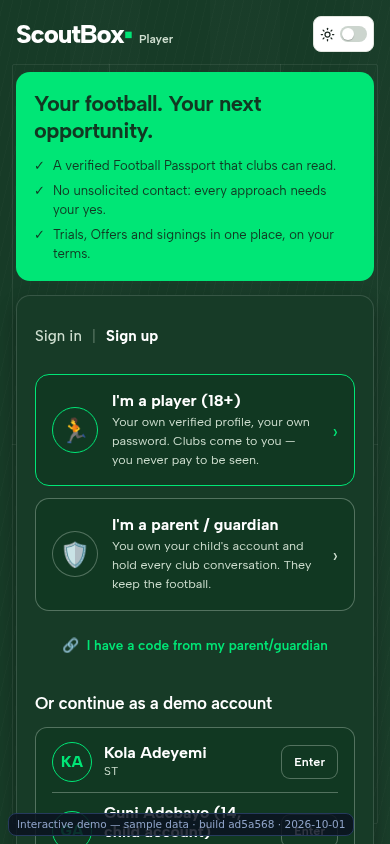
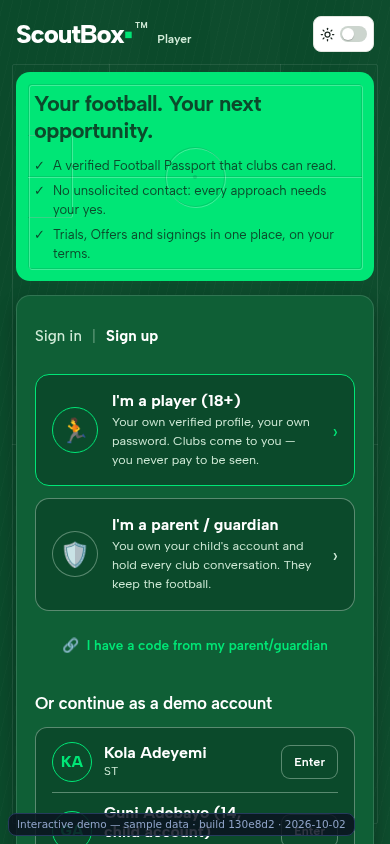
M24C.2: ScoutBox's own pair of greens on the entry screens, the pitch embossed into the bright panel, ™ on the wordmark
The bright ScoutBox green (#00E676) now pairs with a darker ScoutBox pitch
green (#0F5F36) for the form panel, the page one step darker on the same
hue (#0B4A2B), so the entry screens no longer read as a green-on-black
composition that could be mistaken for another brand. White and #D2ECD9
carry the text on the dark greens; #0B4A2B carries it on the bright green.
The introduction panel carries the pitch embossed into the bright green —
a dark groove with a light edge one pixel beside it (CSS pseudo-elements on
the portals, plain Views on the Player) — behind the copy, never in front
of a tap, hidden from assistive technology. The wordmark reads ScoutBox▪™
on every entry screen. Layout, forms, behaviour and the Agent gold label
are unchanged.

Claude-Session: https://claude.ai/code/session_013yjAY7aDf2i5xuqFheoSu9

diff --git a/design-system/platform.css b/design-system/platform.css
@@ -517,15 +517,18 @@ video.clip { width: 100%; max-height: 300px; border-radius: 10px; background: #0
    The pitch is two pseudo-elements: pointer-events none, outside the
    accessibility tree, behind the opaque card, no animation. */
 .login.auth-page {
-  --auth-green: #00e676;        /* bright brand green: the introduction, the submit, focus */
-  --auth-dark: #173b27;         /* dark football green: the page and the form panel */
-  --auth-deep: #113822;         /* deep green: text on bright / pale green, pressed states */
+  --auth-green: #00e676;        /* ScoutBox green: the introduction, the submit, focus */
+  --auth-pitch-green: #0f5f36;  /* ScoutBox pitch green — the darker green that accompanies it: the form panel */
+  --auth-turf: #0b4a2b;         /* the page behind the card, one step darker on the same hue; also text on the bright green and pressed states */
   --auth-pale: #e5f5e9;         /* pale supporting surfaces */
-  --auth-ink: #ffffff;          /* main text on dark green */
-  --auth-soft: #cfdfd0;         /* supporting text on dark green */
-  --auth-promo: var(--auth-green); --auth-panel: var(--auth-dark); --auth-promo-ink: var(--auth-deep);
-  --auth-line: rgba(207, 223, 208, 0.35); --auth-line-strong: rgba(207, 223, 208, 0.6); --auth-focus: var(--auth-green);
-  --auth-pitch: rgba(255, 255, 255, 0.08); --auth-grain: rgba(255, 255, 255, 0.016); --auth-band: rgba(255, 255, 255, 0.012);
+  --auth-ink: #ffffff;          /* main text on the dark greens */
+  --auth-soft: #d2ecd9;         /* supporting text on the dark greens */
+  --auth-dark: var(--auth-turf); --auth-deep: var(--auth-turf);
+  --auth-promo: var(--auth-green); --auth-panel: var(--auth-pitch-green); --auth-promo-ink: var(--auth-turf);
+  --auth-line: rgba(210, 236, 217, 0.4); --auth-line-strong: rgba(210, 236, 217, 0.65); --auth-focus: var(--auth-green);
+  --auth-pitch: rgba(255, 255, 255, 0.09); --auth-grain: rgba(255, 255, 255, 0.016); --auth-band: rgba(255, 255, 255, 0.012);
+  /* the embossed pitch on the bright-green panel: a dark groove with a light edge */
+  --auth-emboss-dark: rgba(8, 60, 32, 0.14); --auth-emboss-light: rgba(255, 255, 255, 0.26);
   position: relative; isolation: isolate; overflow-x: hidden;
   background-color: var(--auth-dark);
   background-image:
@@ -547,9 +550,27 @@ video.clip { width: 100%; max-height: 300px; border-radius: 10px; background: #0
 .auth-page .login-toolbar { top: 14px; right: 16px; z-index: 2; }
 .auth-card {
   position: relative; z-index: 1; display: grid; grid-template-columns: 45fr 55fr; width: 100%; max-width: 1000px;
-  border-radius: 14px; overflow: hidden; border: 1px solid rgba(255, 255, 255, 0.1); box-shadow: 0 24px 60px rgba(0, 0, 0, 0.35), 0 2px 6px rgba(0, 0, 0, 0.2);
+  border-radius: 14px; overflow: hidden; border: 1px solid rgba(255, 255, 255, 0.12); box-shadow: 0 24px 60px rgba(0, 0, 0, 0.3), 0 2px 6px rgba(0, 0, 0, 0.18);
 }
-.auth-promo { background: var(--auth-promo); color: var(--auth-promo-ink); padding: 44px 40px; display: flex; flex-direction: column; justify-content: center; gap: 22px; }
+.auth-promo { position: relative; isolation: isolate; overflow: hidden; background: var(--auth-promo); color: var(--auth-promo-ink); padding: 44px 40px; display: flex; flex-direction: column; justify-content: center; gap: 22px; }
+.auth-promo > * { position: relative; z-index: 1; }
+/* the pitch embossed into the bright green: boundary, halfway line, centre circle and spot (::before), one penalty area (::after) */
+.auth-promo::before {
+  content: ''; position: absolute; pointer-events: none; z-index: 0; inset: 22px 22px; border-radius: 3px;
+  border: 1px solid var(--auth-emboss-dark); box-shadow: inset 1px 1px 0 var(--auth-emboss-light), 1px 1px 0 var(--auth-emboss-light);
+  background-image:
+    linear-gradient(var(--auth-emboss-dark), var(--auth-emboss-dark)), linear-gradient(var(--auth-emboss-light), var(--auth-emboss-light)),
+    radial-gradient(circle at center, transparent 0 58px, var(--auth-emboss-dark) 58px 59px, transparent 59px),
+    radial-gradient(circle at calc(50% + 1px) calc(50% + 1px), transparent 0 58px, var(--auth-emboss-light) 58px 59px, transparent 59px),
+    radial-gradient(circle at center, var(--auth-emboss-dark) 0 2.5px, transparent 2.5px),
+    radial-gradient(circle at calc(50% + 1px) calc(50% + 1px), var(--auth-emboss-light) 0 2.5px, transparent 2.5px);
+  background-size: 100% 1px, 100% 1px, 100% 100%, 100% 100%, 100% 100%, 100% 100%;
+  background-position: 0 calc(50% - 0.5px), 0 calc(50% + 0.5px), center, center, center, center; background-repeat: no-repeat;
+}
+.auth-promo::after {
+  content: ''; position: absolute; pointer-events: none; z-index: 0; left: 30%; right: 30%; top: 22px; height: 64px; border-radius: 0 0 3px 3px;
+  border: 1px solid var(--auth-emboss-dark); border-top: 0; box-shadow: inset 1px 1px 0 var(--auth-emboss-light), 1px 1px 0 var(--auth-emboss-light);
+}
 .auth-promo h2 { font-size: 30px; line-height: 1.12; letter-spacing: -0.9px; font-weight: 700; text-wrap: balance; color: var(--auth-promo-ink); }
 .auth-points { list-style: none; padding: 0; margin: 0; display: flex; flex-direction: column; gap: 11px; font-size: 14px; line-height: 1.5; max-width: 34ch; color: var(--auth-promo-ink); }
 .auth-points li { display: flex; gap: 10px; align-items: flex-start; }
@@ -559,6 +580,7 @@ video.clip { width: 100%; max-height: 300px; border-radius: 10px; background: #0
 .auth-form > * { width: 100%; max-width: 360px; align-self: center; }
 .auth-form h1 { font-size: 30px; font-weight: 800; letter-spacing: -1.3px; line-height: 1; display: inline-flex; align-items: baseline; gap: 7px; flex-wrap: wrap; justify-content: flex-start; color: var(--auth-ink); margin-bottom: 4px; }
 .auth-form h1 .wordmark::after { background: var(--auth-green); }
+.auth-form h1 .tm { font-size: 9px; font-weight: 700; letter-spacing: 0.6px; line-height: 1; color: var(--auth-soft); align-self: flex-start; margin: 2px 2px 0 0; }
 .auth-form h1 .brand-sub { color: var(--auth-soft); font-size: 13px !important; font-weight: 500; }
 :root[data-app="agent"] .auth-form h1 .brand-sub { color: var(--sb-gold, #a67c2e); background: #fbf4e4; font-weight: 700; padding: 3px 7px; border-radius: 5px; letter-spacing: 0; }
 :root[data-app="agent"][data-theme="dark"] .auth-form h1 .brand-sub { color: #a67c2e; }
@@ -621,6 +643,8 @@ video.clip { width: 100%; max-height: 300px; border-radius: 10px; background: #0
   .login.auth-page::after { left: 28%; width: 44%; top: 54px; height: 90px; border: 1px solid var(--auth-pitch); border-top: 0; border-radius: 0 0 2px 2px; }
   .auth-card { grid-template-columns: 1fr; border-radius: 12px; }
   .auth-promo { padding: 24px 20px; gap: 14px; }
+  .auth-promo::before { inset: 14px 14px; background-image: linear-gradient(var(--auth-emboss-dark), var(--auth-emboss-dark)), linear-gradient(var(--auth-emboss-light), var(--auth-emboss-light)), radial-gradient(circle at center, transparent 0 40px, var(--auth-emboss-dark) 40px 41px, transparent 41px), radial-gradient(circle at calc(50% + 1px) calc(50% + 1px), transparent 0 40px, var(--auth-emboss-light) 40px 41px, transparent 41px), radial-gradient(circle at center, var(--auth-emboss-dark) 0 2px, transparent 2px), radial-gradient(circle at calc(50% + 1px) calc(50% + 1px), var(--auth-emboss-light) 0 2px, transparent 2px); background-size: 1px 100%, 1px 100%, 100% 100%, 100% 100%, 100% 100%, 100% 100%; background-position: calc(50% - 0.5px) 0, calc(50% + 0.5px) 0, center, center, center, center; }
+  .auth-promo::after { left: 14px; right: auto; width: 56px; top: 30%; bottom: 30%; height: auto; border: 1px solid var(--auth-emboss-dark); border-left: 0; border-radius: 0 3px 3px 0; }
   .auth-promo h2 { font-size: 23px; }
   .auth-points { font-size: 13px; }
   .auth-form { padding: 24px 20px 22px; gap: 14px; }

diff --git a/scoutbox-player/src/app/onboarding.tsx b/scoutbox-player/src/app/onboarding.tsx
@@ -47,6 +47,32 @@ function RoleCard({ icon, title, subtitle, accent, onPress }: {
   );
 }
 
+/** M24C.2 — the pitch embossed into the bright-green introduction: each
+ *  line is a dark groove with a light edge one pixel beside it. Plain Views,
+ *  so iOS, Android and the web draw it alike; behind the copy, never in front
+ *  of a tap, hidden from assistive technology. */
+function EmbossedPitch() {
+  const dark = AUTH_PAGE.embossDark, light = AUTH_PAGE.embossLight;
+  const line = (extra: object) => [{ position: 'absolute' as const }, extra];
+  return (
+    <View pointerEvents="none" accessibilityElementsHidden importantForAccessibility="no-hide-descendants" aria-hidden style={[StyleSheet.absoluteFill, { overflow: 'hidden', zIndex: 0 }]}>
+      {/* boundary: light edge then the dark groove */}
+      <View style={line({ top: 13, left: 13, right: 11, bottom: 11, borderWidth: 1, borderColor: light, borderRadius: 3 })} />
+      <View style={line({ top: 12, left: 12, right: 12, bottom: 12, borderWidth: 1, borderColor: dark, borderRadius: 3 })} />
+      {/* halfway line */}
+      <View style={line({ left: 12, right: 12, top: '50%', marginTop: 0.5, borderTopWidth: 1, borderColor: light })} />
+      <View style={line({ left: 12, right: 12, top: '50%', marginTop: -0.5, borderTopWidth: 1, borderColor: dark })} />
+      {/* centre circle and spot */}
+      <View style={line({ left: '50%', top: '50%', width: 60, height: 60, marginLeft: -29, marginTop: -29, borderRadius: 30, borderWidth: 1, borderColor: light })} />
+      <View style={line({ left: '50%', top: '50%', width: 60, height: 60, marginLeft: -30, marginTop: -30, borderRadius: 30, borderWidth: 1, borderColor: dark })} />
+      <View style={line({ left: '50%', top: '50%', width: 4, height: 4, marginLeft: -2, marginTop: -2, borderRadius: 2, backgroundColor: dark })} />
+      {/* one penalty area, left end */}
+      <View style={line({ left: 13, top: '30%', bottom: '30%', width: 44, borderWidth: 1, borderLeftWidth: 0, borderColor: light, borderTopRightRadius: 3, borderBottomRightRadius: 3 })} />
+      <View style={line({ left: 12, top: '30%', bottom: '30%', width: 44, borderWidth: 1, borderLeftWidth: 0, borderColor: dark, borderTopRightRadius: 3, borderBottomRightRadius: 3 })} />
+    </View>
+  );
+}
+
 function StepDots({ current }: { current: number }) {
   const colors = useColors();
   const styles = useStyles(makeStyles);
@@ -358,6 +384,7 @@ export default function Onboarding() {
         <View style={styles.topRow}>
           <View style={styles.brand} accessibilityRole="header" aria-level={1} accessibilityLabel="ScoutBox Player">
             <Text style={styles.logo}>ScoutBox<Text style={{ color: AUTH_PAGE.green }}>▪</Text></Text>
+            <Text style={styles.tm} accessibilityLabel="trademark">TM</Text>
             <Text style={styles.product}>Player</Text>
           </View>
           <ThemeSwitch />
@@ -365,7 +392,8 @@ export default function Onboarding() {
 
         {entry && (
           <View style={styles.intro} testID="auth-intro">
-            <Text style={styles.introTitle}>Your football. Your next opportunity.</Text>
+            <EmbossedPitch />
+            <Text style={[styles.introTitle, { zIndex: 1 }]}>Your football. Your next opportunity.</Text>
             <View style={{ gap: 6 }}>
               {[
                 'A verified Football Passport that clubs can read.',
@@ -753,14 +781,15 @@ const makeStyles = (colors: Palette) => StyleSheet.create({
   safe: { flex: 1, backgroundColor: AUTH_PAGE.page },
   scroll: { paddingHorizontal: 16, paddingTop: 10, paddingBottom: 28, gap: 14 },
   topRow: { flexDirection: 'row', alignItems: 'center', justifyContent: 'space-between', minHeight: 48 },
-  brand: { flexDirection: 'row', alignItems: 'baseline', gap: 7 },
+  brand: { flexDirection: 'row', alignItems: 'baseline', gap: 7, flexShrink: 1 },
   logo: { color: AUTH_PAGE.white, fontSize: 26, fontWeight: '800', letterSpacing: -1.1 },
+  tm: { color: AUTH_PAGE.soft, fontSize: 8, fontWeight: '700', letterSpacing: 0.6, lineHeight: 10, alignSelf: 'flex-start', marginTop: 2, marginLeft: -4, marginRight: 2 },
   product: { color: AUTH_PAGE.soft, fontSize: 12, fontWeight: '600' },
-  intro: { backgroundColor: AUTH_PAGE.green, borderRadius: 14, padding: 18, gap: 12 },
+  intro: { backgroundColor: AUTH_PAGE.green, borderRadius: 14, padding: 18, gap: 12, overflow: 'hidden' },
   introTitle: { color: AUTH_PAGE.ink, fontSize: 22, fontWeight: '700', letterSpacing: -0.5, lineHeight: 27 },
   introMark: { color: AUTH_PAGE.ink, fontSize: 13, fontWeight: '800', lineHeight: 19 },
   introLine: { color: AUTH_PAGE.ink, fontSize: 13, lineHeight: 19, flex: 1 },
-  panel: { backgroundColor: AUTH_PANEL.bg, borderRadius: 14, padding: 18, gap: 12, borderWidth: 1, borderColor: AUTH_PAGE.panelLine, shadowColor: '#000', shadowOpacity: 0.3, shadowRadius: 18, shadowOffset: { width: 0, height: 8 } },
+  panel: { backgroundColor: AUTH_PAGE.panel, borderRadius: 14, padding: 18, gap: 12, borderWidth: 1, borderColor: AUTH_PAGE.panelLine, shadowColor: '#000', shadowOpacity: 0.28, shadowRadius: 18, shadowOffset: { width: 0, height: 8 } },
   authTabs: { flexDirection: 'row', alignItems: 'center', gap: 2, marginBottom: 4 },
   authTab: { flexDirection: 'row', alignItems: 'center', gap: 10, paddingVertical: 10, paddingRight: 8, minHeight: 44 },
   authTabText: { color: AUTH_PANEL.muted, fontSize: 15, fontWeight: '500' },

diff --git a/scoutbox-player/src/theme.ts b/scoutbox-player/src/theme.ts
@@ -169,22 +169,26 @@ export const useTheme = () => useContext(ThemeContext);
  *  moment the person is signed in. */
 export const AUTH_PANEL: Palette = {
   ...palettes.dark,
-  // M24C.1 — the ScoutBox greens only: the dark football green of the
-  // Football Passport card for the surfaces, white and #CFDFD0 for the text,
-  // the bright brand green for the primary action, links and focus.
-  bg: '#173b27', bg2: '#113822', panel: '#113822', panel2: '#1d4a33', line: 'rgba(207,223,208,0.35)',
-  text: '#ffffff', muted: '#cfdfd0',
-  accent: '#00e676', accentInk: '#113822', accentText: '#00e676', accent2: '#00e676',
-  tabActive: '#ffffff', tabActiveBg: '#113822', tabInactive: '#cfdfd0',
-  iconBg: '#113822', iconFg: '#00e676', greenBg: '#113822', greenInk: '#e5f5e9', infoBg: '#113822', infoInk: '#e5f5e9',
-  goldBg: '#113822', goldInk: '#f3dca3',
+  // M24C.2 — the ScoutBox green (#00E676) and the darker ScoutBox pitch
+  // green that accompanies it (#0F5F36), one step darker on the same hue for
+  // the page and pressed states (#0B4A2B); white and #D2ECD9 for the text.
+  bg: '#0f5f36', bg2: '#0b4a2b', panel: '#0b4a2b', panel2: '#146b3f', line: 'rgba(210,236,217,0.4)',
+  text: '#ffffff', muted: '#d2ecd9',
+  accent: '#00e676', accentInk: '#0b4a2b', accentText: '#00e676', accent2: '#00e676',
+  tabActive: '#ffffff', tabActiveBg: '#0b4a2b', tabInactive: '#d2ecd9',
+  iconBg: '#0b4a2b', iconFg: '#00e676', greenBg: '#0b4a2b', greenInk: '#e5f5e9', infoBg: '#0b4a2b', infoInk: '#e5f5e9',
+  goldBg: '#0b4a2b', goldInk: '#f3dca3',
   // errors keep their own hue so a refusal never reads as success
-  danger: '#ffb3a8', dangerBg: '#4a2b27', dangerInk: '#ffd4cc', knob: '#ffffff', track: 'rgba(207,223,208,0.35)',
-  frame: '#173b27', frameLine: '#173b27',
-  // the pitch behind the entry screen: white lines at 8%, grain under 2%
-  pitch: 'rgba(255,255,255,0.08)', grain: 'rgba(255,255,255,0.016)', band: 'rgba(255,255,255,0.012)',
+  danger: '#ffb3a8', dangerBg: '#5a2b27', dangerInk: '#ffd4cc', knob: '#ffffff', track: 'rgba(210,236,217,0.4)',
+  frame: '#0b4a2b', frameLine: '#0b4a2b',
+  // the pitch behind the entry screen: white lines at 9%, grain under 2%
+  pitch: 'rgba(255,255,255,0.09)', grain: 'rgba(255,255,255,0.016)', band: 'rgba(255,255,255,0.012)',
 };
-export const AUTH_PAGE = { page: '#173b27', green: '#00e676', ink: '#113822', white: '#ffffff', soft: '#cfdfd0', pale: '#e5f5e9', panelLine: 'rgba(255,255,255,0.14)' } as const;
+export const AUTH_PAGE = {
+  page: '#0b4a2b', panel: '#0f5f36', green: '#00e676', ink: '#0b4a2b', white: '#ffffff', soft: '#d2ecd9', pale: '#e5f5e9', panelLine: 'rgba(255,255,255,0.14)',
+  // the pitch embossed into the bright green: a dark groove with a light edge
+  embossDark: 'rgba(8,60,32,0.14)', embossLight: 'rgba(255,255,255,0.26)',
+} as const;
 
 export function ThemeOverride({ colors, children }: { colors: Palette; children: ReactNode }) {
   const base = useContext(ThemeContext);

diff --git a/design-system/AuthShell.tsx b/design-system/AuthShell.tsx
@@ -40,7 +40,7 @@ export function AuthPage({ app, product, heading, points, toolbar, children, asi
           {aside}
         </section>
         <section className="auth-form" aria-label={`ScoutBox ${product} — sign in`}>
-          <h1><span className="wordmark">ScoutBox</span><span className="brand-sub">{product}</span></h1>
+          <h1><span className="wordmark">ScoutBox</span><sup className="tm" aria-label="trademark">TM</sup><span className="brand-sub">{product}</span></h1>
           {children}
           <div className="login-signature" data-testid="login-signature">Built by <span>Guni &amp; Younes</span></div>
         </section>

diff --git a/M24C_PLAYER_MOBILE_AND_AUTH.md b/M24C_PLAYER_MOBILE_AND_AUTH.md
@@ -90,23 +90,29 @@ values; colours come from the active palette so light and dark both match):
 ## 3. Authentication (all applications)
 
 `design-system/AuthShell.tsx` + the `.login.auth-page` block in
-`design-system/platform.css`. **M24C.1 palette** (the `--auth-*` tokens;
-`AUTH_PANEL` / `AUTH_PAGE` on the Player): the page and the form are the
-dark football green `#173B27` of the Football Passport card, the
-introduction is the bright brand green `#00E676` with `#113822` text, the
-submit is `#00E676` with `#113822` text (pressed: `#113822`), pale
-supporting surfaces are `#E5F5E9`, text on dark green is white with
-`#CFDFD0` for supporting copy and placeholders, underlines are light green at
-35 %, focus is `#00E676`. Behind the centred surfaces the approved pitch
-motif (white boundary, halfway line, centre circle and spot, one penalty
-area at 8 %, grain and mowing bands under 2 %, 1 px lines) — oversized on
-desktop so it shows in the margins, upright and cropped on a phone, never
-in front of a tap or in the accessibility tree, never moving. One centred
-card of at most 1000 px (introduction ≈45 %, form ≈55 %, 14 px radius, soft
-shadow, 44 px padding, form content 360 px wide), the ScoutBox wordmark with
-the product identity above the form, `AuthTabs` only where sign-up exists,
-`AuthField` labelled underlined inputs, `PasswordInput` with show / hide, and
-the compact rounded submit. Under 720 px the panels stack. The theme toggle stays on the page (its stored choice is restored in
+`design-system/platform.css`. **M24C.2 palette** (the `--auth-*` tokens;
+`AUTH_PANEL` / `AUTH_PAGE` on the Player) — ScoutBox's own pair of greens,
+chosen to stand apart from any other brand's green-on-black: the ScoutBox
+green `#00E676` for the introduction, the submit, links and focus, and the
+darker **ScoutBox pitch green `#0F5F36`** that accompanies it for the form
+panel, with the page one step darker on the same hue (`#0B4A2B`, also the
+text on bright green and the pressed state). Pale supporting surfaces are
+`#E5F5E9`; text on the dark greens is white with `#D2ECD9` for supporting
+copy and placeholders; underlines are `#D2ECD9` at 40 %; focus is `#00E676`.
+The introduction carries the pitch **embossed** into the bright green
+(boundary, halfway line, centre circle and spot, one penalty area: a dark
+groove `rgba(8,60,32,.14)` with a light edge `rgba(255,255,255,.26)` one
+pixel beside it — CSS pseudo-elements on the portals, plain Views on the
+Player). Behind the card the same motif in white at 9 % with grain and
+mowing bands under 2 %, oversized on desktop, upright and cropped on a
+phone, never in front of a tap or in the accessibility tree, never moving.
+The wordmark reads **ScoutBox▪™** on every entry screen (`<sup class="tm">`
+/ a small `TM` Text, labelled "trademark"). One centred card of at most
+1000 px (introduction ≈45 %, form ≈55 %, 14 px radius, soft shadow, 44 px
+padding, form content 360 px wide), the product identity beside the
+wordmark, `AuthTabs` only where sign-up exists, `AuthField` labelled
+underlined inputs, `PasswordInput` with show / hide, and the compact rounded
+submit. Under 720 px the panels stack. The theme toggle stays on the page (its stored choice is restored in
 the workspace after sign-in); the entry surface itself keeps its brand
 colours in both states. Nothing here touches the signed-in theme tokens.
 
